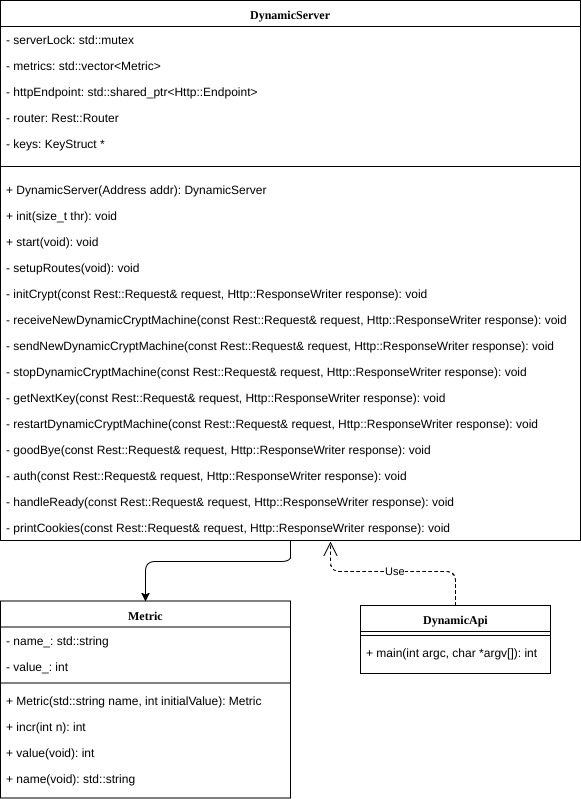
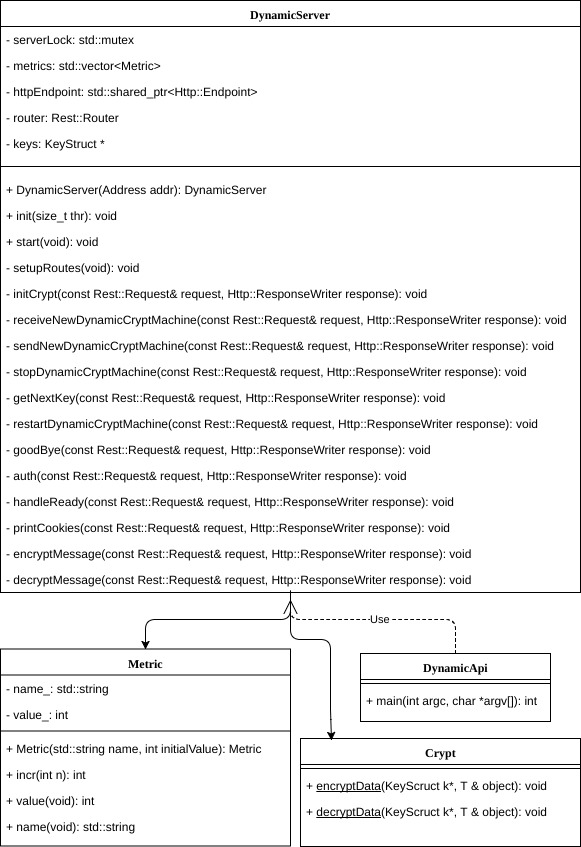
prototype nice and handy

diff --git a/Chapters/Chapter4.tex b/Chapters/Chapter4.tex
@@ -155,7 +155,7 @@ Therefore I will be using Pistache as the rest API part of this project and the 
 
 The class diagram \ref{fig:Crestframeworks} demonstrates roughly how the API will look like. The variables at the top of the DynamicServer class are mostly used for the library. serverLock is to prevent issues with threads changing the same variable at the same time. metrics is for measuring various server performances this uses the Metric class defined in the diagram. httpEndpoint is a pointer used by the framework internally. router is used for handling different routes in the setupRoutes function. keys is a struct array that has the generated encryption key from the tree parity machine, the id of the tree parity machine and a status whether it was sent of or not more properties will most likely be added in the implementation phase to this struct.
 
-The functions after setupRoutes are all route handlers that will need to be associated with a route in the setupRoutes function. initCrypt function will tell the tree parity machine handler to setup the tree parity machines. receiveNewDynamicCryptMachine is when a different host setup the tree parity machines and sends you ids and other information to allow for partnering of this hosts tree parity machines. sendNewDynamicCryptMachine is the opposite of the previous this time the api is sending info of its tree parity machines to another host. stopDynamicCryptMachine this is used when the application believes it doesnt need any more new keys for dynamic encryption so the synchronisation will cease to avoid expensive unnecessary operations. getNextKey will send the next if available key to the application. restartDynamicCryptMachine would be typically called after stopDynamicCryptMachine to generate more keys once again. goodBye will be called when the application doesn't need to use the API anymore this will remove any references and any tree parity machines relating to the application. When the application disconnects from the API a similiar set of instructions will also occur. auth is when authorisation will be implemented for increased security. handleReady is more of a test function to determine if server is up and running. printCookies will most likely never be used. 
+The functions after setupRoutes are all route handlers that will need to be associated with a route in the setupRoutes function. initCrypt function will tell the tree parity machine handler to setup the tree parity machines. receiveNewDynamicCryptMachine is when a different host setup the tree parity machines and sends you ids and other information to allow for partnering of this hosts tree parity machines. sendNewDynamicCryptMachine is the opposite of the previous this time the api is sending info of its tree parity machines to another host. stopDynamicCryptMachine this is used when the application believes it doesnt need any more new keys for dynamic encryption so the synchronisation will cease to avoid expensive unnecessary operations. getNextKey will send the next if available key to the application. restartDynamicCryptMachine would be typically called after stopDynamicCryptMachine to generate more keys once again. goodBye will be called when the application doesn't need to use the API anymore this will remove any references and any tree parity machines relating to the application. When the application disconnects from the API a similiar set of instructions will also occur. auth is when authorisation will be implemented for increased security. handleReady is more of a test function to determine if server is up and running. printCookies will most likely never be used. The encryptMessage and decryptMessage allow the user to pass in a message to be encrypted. The Crypt class will handle the encryption and decryption of such data. The KeyStruct struct will contain information about which tree parity machine generated the key so there will be no confusion when encrypting and decrypting between multiple hosts.
 
 The Metric class is used for saving different server metrics. A metric has a name, value and increment amount.
 
@@ -165,16 +165,107 @@ Lastly the DynamicApi class holds the main method that initialises the server.
 
 
 
+
 \begin{figure}[!h]
   \centering
-      \includegraphics[width=1\textwidth]{Figures/TreeParityMachine.jpg}
-  \caption[Tree Parity Machine synchronisation class diagram]{Tree Parity Machine synchronisation class diagram}
-  \label{fig:tpmClassDiagram}
+      \includegraphics[width=1\textwidth]{Figures/TreeParityMachineManager.jpg}
+  \caption[Tree Parity Machine Manager class diagram]{Tree Parity Machine Manager class diagram}
+  \label{fig:tpmmanagerClassDiagram}
 \end{figure}
 
 \FloatBarrier
 
-this is reference to diagram\ref{fig:tpmClassDiagram}.
+This is a class diagram\ref{fig:tpmmanagerClassDiagram} of the second application. There are two applications primarily because it will be easier and less strain on the API server if the synchronisation activities were running on a different server. These servers will communicate with each other via network protocols and or via shared memory which will be discussed later in this section. The TreeParityMachineManager class has similar variables and functions as DynamicServer from the previous diagram because both of them are implementing the Pistache server framework. Therefore I wont mention the variables and functions required for the framework here again. This class may have to implement the main method as it requires multithreading but I will have to do some tests before I can finilise my answer. 
+
+The threads will be held in an array called treeParityMachines and each thread will execute the function threadFunction which will be used to process the tree parity machines. a struct tpmdata will be passed in to this function, this struct will hold the information and pointers for each tree parity machine and information of the thread that is executing that tree parity machine. The tpmQuery and sendTPMQuery functions will send and receive queries from different hosts to syncronise the tree parity machine. tpmHandleUpdate function is called inside the tpmQuery and sendTPMQuery functions and will update the tree parity machine weights if needed accordingly. initTPMgroup function will create a group of partner tree parity machines for each host that connects with the help of the createTPM function which takes a tmpdata struct and updates it when the tree parity machine is created.
+
+The TreeParityMachine class is the actual tree parity machine itself. K,N,L are tree parity machine parameters these will be discussed later in this section. The TPMOutput is the output of the machine after a query is received. This class has some basic functions required for the tree parity machine to operate. Initialize will initialise the tree parity machine with random weights. ComputeTPMResult will update the TPMOutput variable after processing a query. generateKey willl generate a key based on the tree parity machines weights. UpdateWeight updates the weights if needed. RandomWeight sets the tree parity machines weights to random weights.
+
+The TpmHandler class help out in synchronising the partner tree parity machine with the one locally stored on this host. IsEqual checks if the output bits of both syncronising tree parity machines is equal and therefore other functions can proceed to update weights or not. createQuery creates a query based on the tree parity machines weights. Signum is used for calculations. 
+
+The DynamicArray is used for an adaptable array needed for the TreeParityMachine class. The TPMInputVector class is a helper for creating a vector that is also used by the TreeParityMachine class.
+
+And lastly the SyncTpms holds a main method which might be removed in the implementation phase as there could be issues with threads I will have to experiment to determine this outcome.
+
+
+
+\begin{figure}[!h]
+  \centering
+      \includegraphics[width=1\textwidth]{Figures/boost.png}
+  \caption[shared memory with boost]{shared memory with boost\cite{boost}}
+  \label{fig:boostEzcode}
+\end{figure}
+
+\FloatBarrier
+
+The two applications that I am building are executed on the same host therefore it would be in my best interest to share a chunk of memory between them not only will this increase performance as accessing shared memory is much faster than using networking protocols. Using shared memory will also alleviate some of the stress that would be induced on the servers as they would need to communicate between themselves. To achieve this in a timely manner i will use the help of the boost \cite{boost} library which includes functions for shared memory management.
+
+The source code for a simple implementation can be found on the boost website which is included in figure \ref{fig:boostEzcode}. One application would have to initiate a memory region with 
+\begin{lstlisting}[language=C] 
+mathshared_memory_object shm (create_only, "MySharedMemory", read_write); 
+\end{lstlisting}
+The other server can then open this shared memory using the following
+\begin{lstlisting}[language=C] 
+shared_memory_object shm (open_only, "MySharedMemory", read_only);
+\end{lstlisting}
+Before using the shared memory it must be mapped to the process therefore both processes will need the following
+\begin{lstlisting}[language=C] 
+mapped_region region(shm, read_only);
+\end{lstlisting}
+
+Lastly to make this project easily adaptable I will be making a NodeJS module or specifically middleware compatible with ExpressJS \cite{ExpressJS}. Middleware in NodeJS is functions that take the request or response and process it in some way or form and return or send the modified request or response to the user see figure \ref{fig:middlewarebasic}. My project is definitely usable without this module however this will simplify things even further for people who wish to use this project with NodeJS. 
+
+\begin{figure}[!h]
+  \centering
+      \includegraphics[width=1\textwidth]{Figures/middleware.png}
+  \caption[middleware in express]{middleware in express \cite{middleware}}
+  \label{fig:middlewarebasic}
+\end{figure}
+
+\FloatBarrier
+
+This middleware will be mostly interacting with the DynamicServer API and will use promises that will return various information when said information is acquired, it might take a while for the initial key to arrive so I believe promises would be the best way to go. 
+
+\begin{figure}[!h]
+  \centering
+      \includegraphics[width=0.7\textwidth]{Figures/NodeJsModule.jpg}
+  \caption[NodeJS Module diagram]{NodeJs Module diagram}
+  \label{fig:mynodemoduleclass}
+\end{figure}
+
+\FloatBarrier
+
+The diagram \ref{fig:mynodemoduleclass} is a bare bones representation of what the NodeJS module will look like. I will be doing this part last during the implementation phase so a lot will change by then and therefore this isn't described in too much detail. Since JavaScript can't really be represented in a class diagram I have split the methods onto middleware functionality and everything that is not middleware is represented in the module class.
+
+The methods in the middleware are as follows:
+receivePartner this will perform actions if the request is part of the dynamic encryption and specifically the one that asks the server to use dynamic encryption if the request is anything else the middleware will just call next() and the next middleware in line will perform functions. This function will call the init route in the API with the information of the partner and perhaps more functionality will be required during the implementation phase. This functionality needs to be implemented as middleware since the other host can request to use dynamic encryption with this host at any time.
+receiveMessage will detect if the response is using dynamic encryption and will decrypt that message and update the response object with the decrypted message.
+
+The methods in the module are as follows:
+init will send a request to the init route in the API like the receivePartner method but without the partner information.
+getKey will request a new key from the API.
+stop will stop all syncronising tree parity machines for when dynamic encryption is not needed anymore. It is possible to call init once more to continue syncronisaton. 
+encryptAndSend encrypts a passed in message and sends it to the other host.
+There are two variables in the module currentKey and futureKey. When you call getKey there may be encrypted messages that arrive at a later time and therefore will use currentKey for decryption and newer messages will use futureKey.   
+
+
+
+
+
+
+
+
+
+
+
+
+
+
+
+
+
+
+
 
 
 
@@ -203,6 +294,26 @@ this is reference to diagram\ref{fig:tpmClassDiagram}.
 %\end{tabular} \\
 %\label{tab:ProjRisks}
 %\end{table}
+Creating a reasonably complex project leads to a possibility of risks that may potentially cause my project to fail. This involves risks such as technical issues, implementation issues and design issues. 
+
+The amount of data transferred between each tree parity machine might overwhelm the servers due to many tree parity machines synchronising at once. This can lead to very slow operation or servers crashing therefore I may have to run multiple instances of the servers or reduce the number of tree parity machines.
+
+This project uses a lot of specific algorithms that are projected through mathematical formulas. Failure to understand or implement these formulas into code can cause a delay or failure to complete some functionality.
+
+The framework that I'm planning on using for the rest APIs might not be suitable for the task. This is unlikely to happen as I have researched the most responsive rest frameworks. Pistache seems to have the highest request per second processing time.
+
+This project relies on having a stable network to send data to and from different hosts. A network failure would cause the synchronisation process to cease. Or a congested network will slow down the synchronisation process to an unusable state where it would take a very long time to synchronise due to a plethora of lost packages.
+
+A number of C++ libraries are used for this project as well as some NodeJS libraries that could potentially be used for the NodeJS module. The availability of these libraries could cease or they could become closed source will cause issues in finding alternatives. 
+
+%C++ and JavaScript in particular the NodeJS library are the main languages used in this project if they become unavailable due to the internet lines getting eaten by zombies due to the inevitable zombie Apocalypse I will need to develop my own programming languages using sticks and stones since zues will come down to earth and siphen all of the electricity all while defending myself against the endless hords of the undead and crazy ass pickacho's infected with rabies.
+
+C++ and JavaScript in particular the NodeJS library are the main languages used in this project if they become unavailable I will have to research and implement the project in other languages.
+
+Due to this project being self managed poor planning such as task estimation time or spending too long on a single task may cause the project to be not finished at the deadline set.
+
+This project is built using primarily one device which can lead to laziness with backups. The project should be backed up to an external hard drive or because I am using git for version management I will be occasionally pushing it to GitHub.
+
 
 \section{Methodology}
 %Describe your personal approach on how to tackle the different parts of this project, including:
@@ -212,11 +323,222 @@ this is reference to diagram\ref{fig:tpmClassDiagram}.
 %    \item What core project managing approach will you follow (e.g., Waterfall, Scrum, etc).
 %\end{itemize}
 
+
+I employed a various range of techniques while finalising the background chapter of this paper. I initially researched any reference or any details about dynamic encryption and discovered that it is a mildly discussed topic. A closed source product explained briefly that in order to achieve dynamic encryption they use wrappers. I didn't find wrappers very interesting. And because wrappers at the time of my research were the only method of achieving dynamic encryption publicly available I decided to look at the problem from a different perspective.
+
+In order to achieve dynamic encryption the key must essentially be changed this can be done many ways by sending the key over the network however my goal was to not send the key over the open network, at least not directly. 
+
+I researched topics about key generation and other unconventional ways of sharing keys. 
+I came across neural network synchronisation which can be used to generate a key without directly sending sensitive information over the network. 
+
+The only information about this topic I could find was in research papers, luckily there was a good number of relevant papers with a reasonable variety of information available. All of these were more or less proof of concept as there were no products or examples based of these. After reading and understanding the similarities between these papers I was able to commence chapter 2. 
+
+While constructing chapter two I outlined what is needed for a tree parity machine to operate and the differences between the possible tree parity machines such as different learning algorithms and the benefit of using queries instead of random inputs all while referencing the resources I had available before hand and using relevant points and diagrams from those resources.
+
+
+
+
+Most of the computer science skills required for this project I already posses like building a NodeJS module. However there are many aspects of the project which are new to me. Starting of with the main language C++, which I do not know as well as C however I have used C++ many times in the past as I find multithreading and sleep style functions to be more diverse in C++ as well as the fact that C++ is object orientated making C more difficult to use for larger projects. My C++ skills will need to be expanded a little bit more to complete this project. I have never wrote a rest API server using anything other than NodeJS therefore writing it in C++ is new to me, however I have researched a number of C++ rest frameworks and found Pistache to be similar enough to what I recall from NodeJS and was able to reasonably understand and execute the example server code provided on the Pistache GitHub. I will have to experiment with incorporating custom multithreading functions with Pistache as that might cause issues with multiple clients connected.
+I will also attempt to implement memory sharing between two applications to minimise the stress on the network part of the programs. I have never used shared memory in the past however the library boost provides methods that can be used to allocate a block of memory to be shared amongst applications. I am able to use and understand the basic example however the memory there is constantly the same size which will not be the case in this project so I will need to experiment with this.
+
+
+
+
+
+
+For this project I will agile mythology in particular a sprint based one, where I will undergo a two week sprint followed by a retrospective and planning for the next sprint. I have chosen to follow this technique as that is what was used during my work placement in a well known company. 
+
+It is also very unlikely that a project can be fully created just from class diagrams, ideas and functionality all at the very beginning. Issues and further functionality may have to be resolved and introduced in order to provide a working product, there is no way to predict the exact way to develop software without actually making a basic version and expanding on it until all the features required are implemented and fully working. 
+
+This technique is commonly used for projects will multiple people however there is no harm in following this even if the project only consists of one member. 
+I believe it is important to follow industry standard methods as much as possible since these methods are developed and used by the top companies on earth therefore using these methods must be the best way to accomplish projects as of writing this paper.
+
+
 \section{Implementation Plan Schedule}
 %Come up with a schedule for the remaining time (including second semester), so as to describe how do you envision to achieve the implementation of your project by the end of semester 2. This plan SHOULD be ambitious but MUST be realistic and SHOULD be informed by early prototyping and MUST be discussed with your term 1 supervisor.
+I will be using agile methodology in particular two week sprints followed by sprint retrospect and sprint planning after each sprint is completed. Therefore it is difficult to put a schedule as the next sprint is usually planned after and typically based on the outcome of the sprint before hand. 
+Bellow is a rough description for each sprint if everything goes according to plan.
+
+
+\begin{table}[h]
+\centering
+\caption{Initial risk matrix}
+\begin{tabular}{|p{1cm}|p{12cm}|}
+\hline Sprint & Tasks \\ [14pt]
+
+\hline 1 & Expand prototype to work with two process instances instead of just in the same process. Can use normal files to communicate. \\ [12pt]
+
+\hline 2 & Implement the use of queries instead of random inputs. \\ [12pt]
+
+\hline 3 & Create basic rest server and experiment with multithreading and multiple clients. \\ [12pt]
+
+\hline 4 & Extend functionality of server to mock synchronisation between identical server on a different hosts. e.g. send incremental data to and from each host.\\ [12pt]
+
+\hline 5 & Replace mock with a real tree parity machine. \\ [12pt]
+
+\hline 6 & Add support for multiple tree parity machines. This will need to be stress tested and load tested to ensure that the server lasts under heavy conditions. \\ [12pt]
+
+\hline 7 & Develop the API server for communicating with local host servers. \\ [12pt]
+
+\hline 8 & Develop NodeJS module. \\ [12pt]
+
+\hline 9 & Implement and allow multiple instances to run for performance and stability increase. \\ [12pt]
+
+\hline 10 & Thoroughly test system including NodeJS module and fix any remaining bugs. \\ [12pt]
+
+\hline
+\end{tabular} \\
+\label{tab:ProjRisks}
+\end{table}
+
+\FloatBarrier
+
+
 
 \section{Evaluation}
 %Come up with an evaluation plan that allows you to measure how much have you actually achieved the goals of your project. This again is a section that is often neglected where students loose marks. How do you plan to measure the output of your project? A binary it works/does not work is insufficient. You need to be able to quantify the success against both the functional requirements and the initial idea. These are not the same as you may meet all function requirements outlined but not solve the overall problem because you have failed to revisit these and update them with new information which you learn as you are developing the project.
+The evaluation of this project can be conceived by examining if the functional and non functional requirements are met. The goals aimed to be achieved by this project will also be compared with the final project. 
+
+The final project should be able to successfully synchronise with another instance preferably running on a different host for realism and be able to synchronise using multiple tree parity machines.
+
+The project should not be vulnerable to tree parity machine attacks, this is unlikely as using queries will negate any possible attack methods known.
+
+The communication between the tree parity machine manager and API should be secure and robust. 
+
+An encrypted message send from host 1 should be successfully decrypted after it arrives to host 2.
+
+The NodeJS module should be easy to use and can be implemented in any NodeJS project provided ExpressJS is used.
 
 \section{Prototype}
 %Although you do not have a fully functional project yet, you should show wireframes, snapshots or representation on how do you envision your project to look once the implementation phase has been completed. The nature of this section will vary significantly from project to project and can include anything from code snippets to snapshots of service deployments. Any prototyping you have done during the term should be summarized here that has not been captured in earlier sections. For example if you are planning to host your project using AWS in an EC2 instance you should have at least created a "hello world" setup to determine the basics, this probably should have been discussed in section \ref{sec:Arch}.
+The prototype is two tree parity machines that synchronise with each other using random input vectors. The finial version of the tree parity machines will use queries instead of random input vectors this will result in faster synchronisation time and tree parity machine attacks will not be possible when using queries making it secure.
+The prototype has both tree parity machines running in the same main function so there is no networking involved thus the two tree parity machines can be accessed easily and freely.   
+\begin{figure}[!h]
+  \centering
+      \includegraphics[width=1\textwidth]{Figures/TreeParityMachine.jpg}
+  \caption[Prototype class diagram]{Prototype class diagram}
+  \label{fig:prototype}
+\end{figure}
+
+\FloatBarrier
+
+This is a class diagram of the prototype \ref{fig:prototype}. Since the two tree parity machines synchronise with each other in the same process the diagram is quite small.
+
+\begin{figure}[!h]
+  \centering
+      \includegraphics[width=1\textwidth]{Figures/proto2.png}
+  \caption[Prototype in action]{Prototype in action}
+  \label{fig:prototype2}
+\end{figure}
+\FloatBarrier
+
+\FloatBarrier
+Figure \ref{fig:prototype2} shows a successful synchronisation between the two tree parity machines.
+This run uses the following tree parity machine parameters 12 input neutrons, 11 hidden neutrons and a weight range of 6 meaning the possible value for each weight element is from -6 to 6.  
+The Dictionary size refers to an array from which different elements will be picked to build the encryption key seen on the last line.
+
+\begin{figure}[!h]
+  \centering
+      \includegraphics[width=1\textwidth]{Figures/proto4.png}
+  \caption[Dictionary used]{Dictionary used}
+  \label{fig:prototype4}
+\end{figure}
+\FloatBarrier
+The code snippet \ref{fig:prototype4} contains all the possible characters possible that will make up the key. 
+
+Maximum Iterations is the maximum times the tree parity machines will receive input in order to synchronise. This is used just in case something goes wrong the tree parity machines will not be trying to synchronise forever. The Maximum Iterations is calculated based on the input neutrons, hidden neutrons and the range of weight values. The Maximum Iterations is calculated in this case to be 171,072 which is quite a lot however the tree parity machines manage to synchronise way before that number is reached. In this run the tree parity machines synchronised successfully after 16,594 iterations. 
+DataExchanged is an estimation of the amount of data required to synchronise the two tree parity machines. This is mostly affected by the number of iterations taken to synchronise the more iterations the higher the data. 
+Using the above stated tree parity machine parameters a key of length 66 is produced, increasing and decreasing the tree parity machine parameters will have an impact on the key size.
+
+
+\begin{figure}[!h]
+  \centering
+      \includegraphics[width=1\textwidth]{Figures/proto3.png}
+  \caption[Prototype in action]{Prototype in action}
+  \label{fig:prototype3}
+\end{figure}
+
+\FloatBarrier
+Figure \ref{fig:prototype3} shows another successful synchronisation between the two tree parity machines using the same tree parity machine parameters as the previous example. The key in this case is obviously different and so is the number of iterations required to synchronise. This also means that the amount if estimated data is less in this case it is 642 KiB less.
+
+By changing the tree parity machine parameter variables to lower values of 8 for the hidden neutrons, 10 input neutrons and a weight range of 4 the encryption key is now 20 characters long. Figures \ref{fig:prototype5} and \ref{fig:prototype6} are executed using this configuration.
+
+\begin{figure}[!h]
+  \centering
+      \includegraphics[width=1\textwidth]{Figures/proto5.png}
+  \caption[Prototype in action with a key size of 20]{Prototype in action with a key size of 20}
+  \label{fig:prototype5}
+\end{figure}
+\FloatBarrier
+Because the number of neutrons is reduced so is the number of weight and therefore the number of iterations required for synchronisation is reduced to only 1,559 in figure \ref{fig:prototype5} and 3,661 in figure \ref{fig:prototype6} which is considerably smaller than 11,759 and 16,594 seen before. 
+
+
+
+\begin{figure}[!h]
+  \centering
+      \includegraphics[width=1\textwidth]{Figures/proto6.png}
+  \caption[Prototype in action with a key size of 20]{Prototype in action with a key size of 20}
+  \label{fig:prototype6}
+\end{figure}
+\FloatBarrier
+
+The data exchanged is also significantly reduced with the fewer number of iterations with only 127 KiB in \ref{fig:prototype5} and 300 KiB in figure \ref{fig:prototype6} compared to 2,203 KiB and 1561 KiB in the previous two examples.
+
+In order for synchronisation to occur the weights of both tree parity machines must be identical since the generated key is based on them. The weights are essentially an Array or specifically they are an DynamicArray object and thus can be represented.
+
+\begin{figure}[!h]
+  \centering
+      \includegraphics[width=0.6\textwidth]{Figures/proto7.png}
+  \caption[Weights of A and B before synchronisation]{Weights of A and B before synchronisation}
+  \label{fig:prototype7}
+\end{figure}
+\FloatBarrier
+The figure \ref{fig:prototype7} is the representation of the fist 21 weight values, there is a total of 80 weight values because this run is using 8 hidden neutrons and 10 input neutrons and therefore the size of the list of weight values is 8 * 10. The first column just shows the number in the list for which this weight is associated with. The second column is the weights of the tree parity machine A and the third column is the weights of the tree parity machine B. 
+These weights are displayed before the synchronisation process begins and as you can see they are nothing alike. Note that the maximum and minimum values you can see is -4 to 4 this is because the weight range for this run is set to 4.
+
+
+
+\begin{figure}[!h]
+  \centering
+      \includegraphics[width=0.6\textwidth]{Figures/proto8.png}
+  \caption[Weights of A and B after synchronisation]{Weights of A and B after synchronisation}
+  \label{fig:prototype8}
+\end{figure}
+\FloatBarrier
+
+The figure \ref{fig:prototype8} is taken from the same run but the weights are displayed after the synchronisation process and as you can see the weights of both of the tree parity machines are now identical therefore they are able to produce the same key.
+
+\begin{figure}[!h]
+  \centering
+      \includegraphics[width=0.6\textwidth]{Figures/proto9.png}
+  \caption[Weights of A and B before synchronisation with an increased range]{Weights of A and B before synchronisation with an increased range}
+  \label{fig:prototype9}
+\end{figure}
+\FloatBarrier
+The figure \ref{fig:prototype9} is displaying the weights of both tree parity machines before synchronisation just like before except this time the weight range is increased to 6 that's is why the minimum and maximum values you can see this time is -6 to 6. Again the weights are completely different from one another as they are initialised randomly at the beginning. In the prototype time is used to seed the random generator this will not be acceptable for the final project as time can be easily guessed. 
+
+
+\begin{figure}[!h]
+  \centering
+      \includegraphics[width=0.6\textwidth]{Figures/proto10.png}
+  \caption[Weights of A and B after synchronisation with an increased range]{Weights of A and B after synchronisation with an increased range}
+  \label{fig:prototype10}
+\end{figure}
+\FloatBarrier
+The figure \ref{fig:prototype10} is the weights of the same tree parity machines as in figure \ref{fig:prototype9} but after synchronisation and as you can see the weights are now identical. 
+The reason one might choose to increase the weight range is because these weight are used in calculations and give a little bit more diversity. 
+Increasing the weight range can also increase the length of the encryption key. Figure \ref{fig:prototype7} uses the same parameters as \ref{fig:prototype10} but with a weight range of 4 instead of 6. The key length of \ref{fig:prototype7} is 20 and the key length of \ref{fig:prototype10} is 40.
+In my testing I found that there isn't really any benefit in increasing the weight range past 6 as anything above 6 doesn't increase the key length by much and increases the number of iterations by a good bit. I have found that it is better to increase the number of hidden neutrons if you need a larger key length followed by the number of input neutrons and just leave the weight range at 6.
+
+
+%most of the work like the iterations was done in the main function so I will go through the important bits before demonstrating an example of it running.
+
+%\begin{figure}[!h]
+%  \centering
+%      \includegraphics[width=1\textwidth]{Figures/proto1.png}
+%%  \caption[Prototype code section]{Prototype code section}
+%  \label{fig:prototype1}
+%\end{figure}
+
+%\FloatBarrier
+%The figure \ref{fig:prototype} is a snippet of code 
